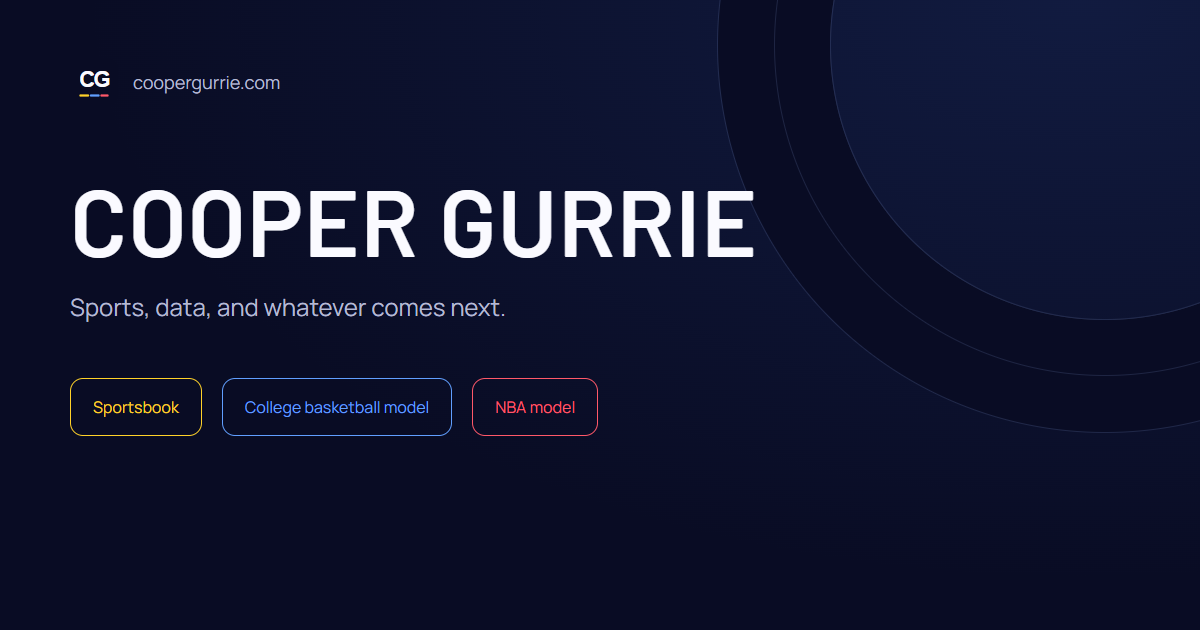
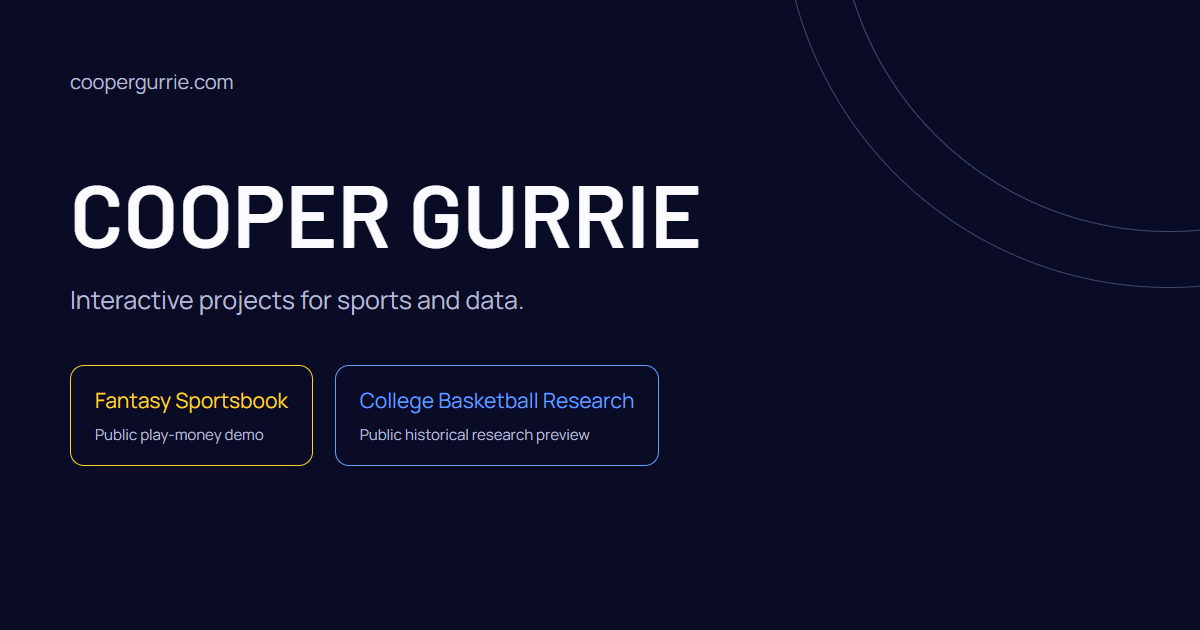
Improve portfolio navigation, project evidence, and research status

diff --git a/index.html b/index.html
@@ -4,24 +4,25 @@
 <meta charset="utf-8">
 <meta name="viewport" content="width=device-width, initial-scale=1">
 <meta name="theme-color" content="#090c24">
-<meta name="description" content="Cooper Gurrie's projects turn sports and data into interactive experiences. Explore a play-money fantasy football sportsbook and upcoming basketball models.">
+<meta name="description" content="Explore Cooper Gurrie's Fantasy Sportsbook, with a public play-money demo, and College Basketball Research, a public historical research preview.">
+<link rel="canonical" href="https://coopergurrie.com/">
 <link rel="icon" type="image/svg+xml" href="assets/cooper-favicon.svg">
 <link rel="preload" href="assets/fonts/Barlow-SemiBold.ttf" as="font" type="font/ttf" crossorigin>
 <link rel="preload" href="assets/fonts/Manrope-Variable.ttf" as="font" type="font/ttf" crossorigin>
 <meta property="og:type" content="website">
 <meta property="og:title" content="Cooper Gurrie — Projects">
-<meta property="og:description" content="Sports, data, and whatever comes next.">
+<meta property="og:description" content="Explore Cooper Gurrie's Fantasy Sportsbook, with a public play-money demo, and College Basketball Research, a public historical research preview.">
 <meta property="og:url" content="https://coopergurrie.com/">
 <meta property="og:image" content="https://coopergurrie.com/assets/cooper-share.png">
 <meta property="og:image:width" content="1200">
 <meta property="og:image:height" content="630">
-<meta property="og:image:alt" content="Cooper Gurrie: Sportsbook, college basketball model, and NBA model.">
+<meta property="og:image:alt" content="Cooper Gurrie: Fantasy Sportsbook and College Basketball Research.">
 <meta name="twitter:card" content="summary_large_image">
 <title>Cooper Gurrie — Projects</title>
 <style>
 @font-face{font-family:Barlow;src:url('assets/fonts/Barlow-SemiBold.ttf') format('truetype');font-style:normal;font-weight:600;font-display:swap}
 @font-face{font-family:Manrope;src:url('assets/fonts/Manrope-Variable.ttf') format('truetype');font-style:normal;font-weight:200 800;font-display:swap}
-:root{color-scheme:dark;--bg:#090c24;--text:#fafaff;--muted:#b5bad2;--yellow:#ffd229;--blue:#619fff;--red:#ff5869}
+:root{color-scheme:dark;--bg:#090c24;--text:#fafaff;--muted:#b5bad2;--yellow:#ffd229;--blue:#619fff}
 *{box-sizing:border-box}body{margin:0;background:var(--bg);color:var(--text);font-family:Manrope,"Segoe UI",Arial,sans-serif;-webkit-font-smoothing:antialiased;isolation:isolate}
 body::before{content:"";position:fixed;inset:0;z-index:-2;pointer-events:none;background:radial-gradient(ellipse at 85% 5%,#22397855,transparent 46%),radial-gradient(ellipse at 4% 89%,#23334a66,transparent 44%)}
 .background{position:fixed;inset:-24px;width:calc(100% + 48px);height:calc(100% + 48px);z-index:-1;pointer-events:none;opacity:.65;transform:translate(var(--bg-x,0px),var(--bg-y,0px));transition:transform 1.2s cubic-bezier(.2,.8,.2,1)}
@@ -29,31 +30,22 @@ body::before{content:"";position:fixed;inset:0;z-index:-2;pointer-events:none;ba
 @keyframes orbit-drift{from{transform:rotate(-1deg)}to{transform:rotate(2deg)}}
 @keyframes intro-enter{from{opacity:0;transform:translateY(14px)}to{opacity:1;transform:translateY(0)}}
 .intro{animation:intro-enter .7s ease-out both}
-.page{max-width:1340px;margin:auto;min-height:100svh;padding:76px 56px 32px}
-.intro{text-align:center}h1{font-family:Barlow,"Segoe UI",sans-serif;font-size:clamp(46px,7.2vw,102px);line-height:1.05;letter-spacing:1px;margin:22px 0 25px;font-weight:600}
+.page{max-width:1340px;margin:auto;min-height:100svh;padding:30px 56px 32px}
+.intro{text-align:center}h1{font-family:Barlow,"Segoe UI",sans-serif;font-size:clamp(46px,6.2vw,88px);line-height:1.05;letter-spacing:1px;margin:12px 0 16px;font-weight:600}
 .intro p{font-size:18px;line-height:1.65;color:var(--muted);max-width:660px;margin:0 auto}
-.socials{display:flex;justify-content:center;gap:20px;margin-top:26px}.social{position:relative;display:grid;place-items:center;width:44px;height:44px;outline:none;border-radius:12px;transition:transform .3s cubic-bezier(.2,.8,.2,1),background .25s,color .25s;color:#c9cae0}
-.social svg{width:24px;height:24px;fill:currentColor}.social:hover,.social:focus-visible{transform:translateY(-6px) rotate(-7deg) scale(1.12);color:white;background:#20204b}.social:focus-visible{outline:2px solid #fff;outline-offset:4px}
-.social::after{content:attr(data-label);position:absolute;top:52px;font-size:11px;white-space:nowrap;color:var(--muted);opacity:0;transform:translateY(-4px);transition:.2s;pointer-events:none}.social:hover::after,.social:focus-visible::after{opacity:1;transform:translateY(0)}
-.projects{display:grid;grid-template-columns:repeat(6,minmax(0,1fr));gap:38px;margin:74px 0 68px;perspective:1200px}
-.projects > .project{grid-column:span 2}
-.projects > .placeholder{min-height:280px}
-.projects > .placeholder h2{margin:0 0 35px}
-.projects > .placeholder.ocho{grid-column:2 / span 2;--accent:#bd8cff;--rgb:189,140,255}
-.projects > .placeholder.instagram{grid-column:4 / span 2;--accent:#65dba0;--rgb:101,219,160}
-.project{--accent:var(--yellow);--rgb:255,210,41;--rx:0deg;--ry:0deg;--px:50%;--py:50%;position:relative;isolation:isolate;display:flex;flex-direction:column;min-height:340px;padding:34px 30px 30px;border:2px solid var(--accent);border-radius:32px;outline:none;background:var(--bg);transform:translateY(0) rotateX(0deg) rotateY(0deg);transition:transform .45s cubic-bezier(.2,.75,.2,1),box-shadow .4s;will-change:transform;overflow:hidden}
-.project.blue{--accent:var(--blue);--rgb:97,159,255}.project.red{--accent:var(--red);--rgb:255,88,105}
+.projects{display:grid;grid-template-columns:repeat(2,minmax(0,1fr));align-items:start;gap:28px;margin:22px 0 36px;perspective:1200px}
+.project{--accent:var(--yellow);--rgb:255,210,41;--rx:0deg;--ry:0deg;--px:50%;--py:50%;position:relative;isolation:isolate;display:flex;flex-direction:column;min-height:0;padding:28px 28px 24px;border:2px solid var(--accent);border-radius:32px;outline:none;background:var(--bg);transform:translateY(0) rotateX(0deg) rotateY(0deg);transition:transform .45s cubic-bezier(.2,.75,.2,1),box-shadow .4s;will-change:transform;overflow:hidden}
+.project.blue{--accent:var(--blue);--rgb:97,159,255}
 .project::before{content:"";position:absolute;inset:0;z-index:-1;border-radius:inherit;background:radial-gradient(circle at var(--px) var(--py),rgba(var(--rgb),.17),transparent 65%);opacity:0;transition:opacity .4s}
 .project:hover,.project:focus-visible,.project:focus-within{transform:translateY(-12px) rotateX(var(--rx)) rotateY(var(--ry));box-shadow:0 22px 45px #00000038,0 0 32px rgba(var(--rgb),.12)}
 .project:hover::before,.project:focus-visible::before,.project:focus-within::before{opacity:1}.project:focus-visible{outline:2px solid white;outline-offset:6px}
-.project h2{font-family:Barlow,"Segoe UI",sans-serif;font-weight:600;font-size:26px;line-height:1.15;letter-spacing:-.3px;margin:0 0 19px}
-.description{font-size:16px;line-height:1.65;color:var(--muted);margin:0 0 28px;max-width:290px}
+.project h2{font-family:Barlow,"Segoe UI",sans-serif;font-weight:600;font-size:26px;line-height:1.15;letter-spacing:-.3px;margin:0 0 12px}
+.description{font-size:16px;line-height:1.65;color:var(--muted);margin:0 0 18px;max-width:46ch}
 .project h2,.description,.bottom{transition:transform .4s cubic-bezier(.2,.8,.2,1)}.project:hover h2{transform:translateY(-3px)}.project:hover .description{transform:translateY(-2px);transition-delay:.04s}
 .bottom{margin-top:auto}.status{font-size:12px;color:var(--muted);margin:0 0 13px;display:flex;align-items:center;gap:8px}.status::before{content:"";width:6px;height:6px;flex-shrink:0;background:var(--accent);border-radius:50%}
 .button{font:600 14px Manrope,"Segoe UI",Arial,sans-serif;display:flex;align-items:center;justify-content:center;width:100%;min-height:48px;padding:12px 16px;border:1px solid var(--accent);border-radius:10px;text-decoration:none;transition:transform .22s,background .22s,box-shadow .22s;color:#171525;background:var(--accent)}
 .button.live:hover{transform:translateY(-3px);background:#ffdf60;box-shadow:0 8px 22px #ffd22930}.button.live:active{transform:translateY(1px) scale(.98)}.button:focus-visible{outline:2px solid white;outline-offset:5px}
 .blue .button.live{background:var(--blue);color:#091429}.blue .button.live:hover{background:#8ab9ff;box-shadow:0 8px 22px #619fff30}
-.button:disabled{cursor:default;background:rgba(var(--rgb),.08);color:var(--accent);border-color:rgba(var(--rgb),.35)}
 footer{display:flex;justify-content:space-between;gap:20px;color:#8d8ea9;font-size:12px;line-height:1.5}footer p{margin:0}
 .about{margin:14px 0 0;color:var(--muted);font-size:14px;line-height:1.7}
 .about summary{display:flex;align-items:center;justify-content:space-between;gap:12px;padding:9px 0;list-style:none;cursor:pointer;color:var(--text);font-size:13px}
@@ -61,16 +53,29 @@ footer{display:flex;justify-content:space-between;gap:20px;color:#8d8ea9;font-si
 .about[open] summary::after{transform:rotate(45deg)}.about summary:hover{color:var(--accent)}.about summary:focus-visible{outline:2px solid white;outline-offset:5px;border-radius:3px}
 .about p{margin:8px 0 0}.about[open] p{animation:intro-enter .25s ease-out both}
 .about ul{padding-left:18px;margin:13px 0}.about li{margin:7px 0}.about strong{color:var(--text);font-weight:600}
-.personal.about{--accent:var(--blue);max-width:660px;margin:26px auto 0}
+.personal.about{--accent:var(--blue);max-width:660px;margin:8px auto 0}
 .personal summary{justify-content:center;gap:15px}
 .intro .personal p{font-size:15px;text-align:left;line-height:1.8;margin:13px 0}
-@media(max-width:1000px){.page{padding:50px 30px 30px}.projects{gap:20px}.project{padding:26px 22px;border-radius:26px}.project h2{font-size:23px}.description{font-size:15px}h1{letter-spacing:-2.5px}}
-@media(max-width:740px){.page{padding:38px 24px 26px}h1{font-size:clamp(40px,10vw,68px);letter-spacing:-2px;margin:20px 0}.intro p{font-size:16px;max-width:420px}.projects{grid-template-columns:1fr;gap:25px;margin:56px auto 46px;max-width:440px}.projects > .project,.projects > .placeholder.ocho,.projects > .placeholder.instagram{grid-column:1}.project{min-height:288px;padding:28px;border-radius:28px}.project h2{font-size:25px}.description{max-width:none;font-size:16px}footer{font-size:11px}.socials{margin-top:22px}}
-@media(prefers-reduced-motion:reduce){*,*::before,*::after{transition:none!important;animation:none!important}.project:hover,.project:focus-visible,.project:focus-within,.project:hover h2,.project:hover .description,.social:hover,.social:focus-visible,.button.live:hover,.button.live:active{transform:none!important}}
+.skip-link{position:fixed;left:16px;top:12px;z-index:10;padding:12px 18px;background:var(--yellow);color:var(--bg);border-radius:8px;transform:translateY(-160%)}
+.skip-link:focus{transform:none;outline:2px solid white;outline-offset:4px}
+main{scroll-margin-top:20px}main:focus{outline:2px solid var(--blue);outline-offset:10px;border-radius:8px}
+.explore{display:inline-flex;align-items:center;min-height:44px;margin-top:8px;color:var(--yellow);text-underline-offset:5px;font-weight:700}
+a:focus-visible{outline:2px solid white;outline-offset:5px;border-radius:3px}
+.section-heading{font:600 24px Barlow,"Segoe UI",sans-serif;margin:20px 0 0}
+.project-index{display:flex;flex-wrap:wrap;gap:8px 24px;margin-top:4px}.project-index a{display:inline-flex;align-items:center;min-height:44px;color:var(--muted);text-underline-offset:5px;font-size:14px}
+.project{scroll-margin-top:24px}.status{line-height:1.6}.role{font-size:13px;color:var(--muted);margin:0 0 18px}
+.secondary-link{display:flex;align-items:center;justify-content:center;min-height:44px;margin-top:4px;color:var(--accent);font-size:14px;text-underline-offset:4px}
+.project figure{margin:18px 0}.project img{display:block;width:100%;height:auto;border:1px solid #56617e;border-radius:10px}.project figcaption{font-size:12px;line-height:1.6;margin-top:8px;color:var(--muted)}
+.case-link{color:var(--blue);text-underline-offset:4px}.case-copy{margin-top:16px}.case-copy dt{color:var(--text);font-weight:700;margin-top:14px}.case-copy dd{margin:5px 0 0}
+.upcoming{border-top:1px solid #414864;padding-top:22px;margin-bottom:32px}.upcoming h2{margin:0 0 8px;font:600 22px Barlow,"Segoe UI",sans-serif}.upcoming p{color:var(--muted);font-size:14px;line-height:1.7;margin:8px 0}.upcoming strong{color:var(--text)}
+@media(max-width:1000px){.page{padding:28px 30px}.projects{gap:20px}.project{padding:24px 22px;border-radius:26px}.project h2{font-size:24px}.description{font-size:15px}h1{letter-spacing:-2.5px}}
+@media(max-width:740px){.page{padding:20px 20px 26px}h1{font-size:clamp(38px,10vw,68px);letter-spacing:-1.5px;margin:12px 0}.intro p{font-size:16px;max-width:420px}.projects{grid-template-columns:1fr;gap:20px;margin:12px auto 28px;max-width:520px}.project{padding:22px;border-radius:24px}.project h2{font-size:25px}.description{max-width:none;font-size:15px}.section-heading,.project-index,.upcoming{max-width:520px;margin-left:auto;margin-right:auto}.project-index{gap:0 16px}.project-index a{font-size:13px}footer{font-size:11px;flex-wrap:wrap}}
+@media(prefers-reduced-motion:reduce){*,*::before,*::after{transition:none!important;animation:none!important}.project:hover,.project:focus-visible,.project:focus-within,.project:hover h2,.project:hover .description,.button.live:hover,.button.live:active{transform:none!important}}
 @media(prefers-reduced-motion:reduce){.background{transform:none!important}}
 </style>
 </head>
 <body>
+<a class="skip-link" href="#projects">Skip to projects</a>
 <svg class="background" viewBox="0 0 1440 960" preserveAspectRatio="xMidYMid slice" aria-hidden="true">
 <g class="orbit-lines" fill="none" stroke="#7585bd" stroke-width="1" opacity=".21">
 <ellipse cx="1335" cy="105" rx="350" ry="275" transform="rotate(-30 1335 105)"/>
@@ -87,38 +92,45 @@ footer{display:flex;justify-content:space-between;gap:20px;color:#8d8ea9;font-si
 <div class="page">
 <header class="intro">
 <h1>COOPER GURRIE</h1>
-<p>A home for my projects, turning sports and data into interactive experiences to share with others.</p>
-<div class="socials" aria-label="LinkedIn and email — links will be added later">
-<span class="social" tabindex="0" role="img" aria-label="LinkedIn — link to be added" data-label="LinkedIn">
-<svg viewBox="0 0 24 24" aria-hidden="true"><path d="M20.4 2H3.6C2.7 2 2 2.7 2 3.6v16.8c0 .9.7 1.6 1.6 1.6h16.8c.9 0 1.6-.7 1.6-1.6V3.6c0-.9-.7-1.6-1.6-1.6ZM8 19H5V9h3v10ZM6.5 7.7a1.7 1.7 0 1 1 0-3.4 1.7 1.7 0 0 1 0 3.4ZM19 19h-3v-5.3c0-1.3-.5-2.1-1.6-2.1-1.2 0-1.9.8-1.9 2.1V19h-3V9h2.9v1.4c.5-.8 1.5-1.7 3-1.7 2.5 0 3.6 1.5 3.6 4.4V19Z"/></svg>
-</span>
-<span class="social" tabindex="0" role="img" aria-label="Email — address to be added" data-label="Email">
-<svg viewBox="0 0 24 24" aria-hidden="true" style="fill:none;stroke:currentColor;stroke-width:1.8;stroke-linecap:round;stroke-linejoin:round"><rect x="2.5" y="4.5" width="19" height="15" rx="2.5"/><path d="m3.5 6 8.5 7 8.5-7"/></svg>
-</span>
-</div>
-<details class="about personal"><summary>A little about me</summary><p>Family, friends, and sports are a big part of my life. I love watching, playing, and talking about sports, and turning data that might otherwise sit in a spreadsheet into something people can interact with and enjoy.</p><p>I started these projects to see how far curiosity, passion, and perseverance could take me. Building something I can call my own is rewarding. Sharing it with others is the best part. The topics may change, but making data enjoyable and useful will always be the focus.</p></details>
+<p>I turn sports and data into interactive experiences.</p>
+<a class="explore" href="#projects">Explore my work</a>
+
 </header>
-<main class="projects" aria-label="Projects">
-<article class="project" tabindex="0" aria-labelledby="sportsbook-title">
-<h2 id="sportsbook-title">Sportsbook</h2>
-<p class="description">A play-money sportsbook for my fantasy football dynasty league. Bet on matchups, player performances, and season outcomes, then see how you stack up against your leaguemates.</p>
-<div class="bottom"><p class="status">Live for select users</p><a class="button live" href="https://sportsbook.coopergurrie.com">Open sportsbook</a></div>
-<details class="about"><summary>About this project</summary><p>I built this to give my dynasty league another way to compete and spend time together, using play money so nobody has to risk losing real money to join in.</p><ul><li><strong>Matchup bets:</strong> predict winners, total scores, and winning margins.</li><li><strong>Player bets:</strong> predict individual fantasy performances.</li><li><strong>Weekly predictions:</strong> bet on outcomes across the league.</li><li><strong>Season futures:</strong> predict the champion, No. 1 pick, and playoff teams.</li><li><strong>League activity:</strong> view your bets, everyone else's bets, and the season leaderboard.</li></ul><p>Today it's built for one league. Longer term, I'd like to bring that extra layer of competition and interaction to other fantasy leagues.</p></details>
+<main id="projects" tabindex="-1" aria-labelledby="projects-heading">
+<h2 class="section-heading" id="projects-heading">Explore the projects</h2>
+<nav class="project-index" aria-label="Published projects"><a href="#sportsbook">Fantasy Sportsbook</a><a href="#basketball">College Basketball Research</a></nav>
+<div class="projects">
+<article id="sportsbook" class="project" aria-labelledby="sportsbook-title">
+<h2 id="sportsbook-title">Fantasy Sportsbook</h2>
+<p class="description">A play-money sportsbook for fantasy football leaguemates, with matchup bets, player markets, and a leaderboard.</p>
+<p class="role">Built by me for my dynasty league.</p>
+<div class="bottom"><p class="status">Public demo · League app requires approved access</p><a class="button live" href="https://sportsbook.coopergurrie.com/#/demo">Explore the sportsbook demo</a><a class="secondary-link" href="https://sportsbook.coopergurrie.com">League member sign-in</a></div>
+<details class="about"><summary>Inside Fantasy Sportsbook</summary>
+<figure><img src="assets/sportsbook-demo.webp" width="1280" height="900" loading="lazy" alt="Fantasy Sportsbook demo showing fictional league matchups, play-money lines, and a notice that betting is disabled."><figcaption>The public, read-only demo uses fictional teams, scores, balances, and tickets.</figcaption></figure>
+<dl class="case-copy"><dt>The problem &amp; audience</dt><dd>I wanted to give my dynasty league another way to compete and spend time together beyond the fantasy standings.</dd>
+<dt>What I built</dt><dd>A sportsbook experience for matchup bets, player performances, season futures, ticket history, and league standings.</dd>
+<dt>A design decision</dt><dd>Use play money so participation does not require risking real money. Keep the public demo separate from private league access.</dd>
+<dt>Try it now</dt><dd>Explore fictional markets, sample tickets, and the leaderboard in the demo. Betting, account changes, and email delivery are disabled there.</dd>
+<dt>Current limits</dt><dd>The league app requires an approved email mapped to a team by the league administrator. The demo is illustrative; live line updates are still in development.</dd></dl>
+</details>
 </article>
-<article class="project blue" tabindex="0" aria-labelledby="cbb-title">
-<h2 id="cbb-title">NCAAB Prediction Model</h2>
-<p class="description">A live Division I college basketball model focused on finding potential edges in sportsbook lines. Explore the current model as I continue to develop and refine it.</p>
-<div class="bottom"><p class="status">Live</p><a class="button live" href="https://cbb.coopergurrie.com">Access Model</a></div>
-<details class="about"><summary>About this project</summary><p>Built around current and historical Division I team data, with an initial focus on spreads.</p><p>The project aims to bring matchup information, model projections, and sportsbook comparisons together, with a history of recommendations and results to help evaluate the model.</p><p>The college basketball site is live, and I'll continue expanding its features.</p></details>
+<article id="basketball" class="project blue" aria-labelledby="cbb-title">
+<h2 id="cbb-title">College Basketball Research</h2>
+<p class="description">Compare Division I basketball models with historical matchups, recorded sportsbook lines, and results.</p>
+<p class="role">My ongoing basketball data and model project.</p>
+<div class="bottom"><p class="status">Public research preview · No validated betting edge</p><a class="button live" href="https://cbb.coopergurrie.com">Explore basketball research</a><a class="secondary-link" href="https://cbb.coopergurrie.com/#performance">Explore historical winner performance</a></div>
+<details class="about"><summary>Inside College Basketball Research</summary>
+<figure><img src="assets/basketball-research.webp" width="1280" height="900" loading="lazy" alt="College Basketball Research showing historical spread comparisons, hypothetical returns, uncertainty, and a model-not-promoted notice."><figcaption>Historical research comparisons. Hypothetical results do not establish a betting advantage.</figcaption></figure>
+<dl class="case-copy"><dt>The problem &amp; audience</dt><dd>Basketball fans exploring models need to see what was evaluated and what the evidence can actually support.</dd>
+<dt>What I am building</dt><dd>A place to explore Division I data, historical model comparisons, recorded prices, and evaluation methods.</dd>
+<dt>A design decision</dt><dd>Separate winner predictions from spread-cover research, and show uncertainty and source limitations alongside results.</dd>
+<dt>Try it now</dt><dd><a class="case-link" href="https://cbb.coopergurrie.com/#spreads">Compare historical spread research</a> or explore winner performance using the link above.</dd>
+<dt>Current limits</dt><dd>This is a research preview. Historical comparisons were not issued as live bets. No validated spread betting edge has been established; winner accuracy is not a betting return.</dd></dl>
+</details>
 </article>
-<article class="project red" tabindex="0" aria-labelledby="nba-title">
-<h2 id="nba-title">NBA model</h2>
-<p class="description">An NBA model designed to find potential edges in sportsbook lines, starting with spreads. Explore daily matchup recommendations and compare odds once it launches.</p>
-<div class="bottom"><p class="status">In development</p><button class="button" disabled>Coming soon</button></div>
-<details class="about"><summary>About this project</summary><p>The NBA counterpart to my college basketball model, built around current and historical NBA data. It will start with spreads, with winners and totals also planned.</p><p><strong>Planned features</strong></p><ul><li>Daily game recommendations with matchup information.</li><li>Compare model projections with lines from major sportsbooks.</li><li>Highlight the best available odds among the books compared for a recommended bet.</li><li>Keep a history of recommendations and their results to evaluate and refine the model.</li></ul><p>The model and its website are both in development.</p></details>
-</article>
-<article class="project placeholder ocho" tabindex="0" aria-labelledby="ocho-title"><h2 id="ocho-title">THE OCHO</h2><div class="bottom"><p class="status">In development</p><button class="button" disabled>Coming soon</button></div></article>
-<article class="project placeholder instagram" tabindex="0" aria-labelledby="auto-ig-title"><h2 id="auto-ig-title">Auto IG Posts</h2><div class="bottom"><p class="status">In development</p><button class="button" disabled>Coming soon</button></div></article>
+</div>
+<section class="upcoming" aria-labelledby="upcoming-heading"><h2 id="upcoming-heading">Ideas in progress</h2><p><strong>The Ocho</strong> — Up next. Scope and details to come.</p><p><strong>NBA Model</strong> — Planned research into NBA spreads and historical model evaluation. No public model yet.</p></section>
+<details class="about personal"><summary>A little about me</summary><p>Family, friends, and sports are a big part of my life. I love watching, playing, and talking about sports, and turning data that might otherwise sit in a spreadsheet into something people can interact with and enjoy.</p><p>I started these projects to see how far curiosity, passion, and perseverance could take me. Building something I can call my own is rewarding. Sharing it with others is the best part. The topics may change, but making data enjoyable and useful will always be the focus.</p></details>
 </main>
 <footer><p>coopergurrie.com</p><p>More projects as they take shape.</p></footer>
 </div>

diff --git a/tests/test_portfolio.py b/tests/test_portfolio.py
@@ -1,0 +1,126 @@
+"""Browser regressions for the static portfolio. No external app writes."""
+import os
+from functools import partial
+from http.server import SimpleHTTPRequestHandler, ThreadingHTTPServer
+from pathlib import Path
+from threading import Thread
+import unittest
+from playwright.sync_api import sync_playwright
+
+ROOT = Path(__file__).resolve().parents[1]
+
+
+class QuietHandler(SimpleHTTPRequestHandler):
+    def log_message(self, *args):
+        pass
+
+
+class PortfolioTests(unittest.TestCase):
+    @classmethod
+    def setUpClass(cls):
+        cls.server = ThreadingHTTPServer(('127.0.0.1', 0), partial(QuietHandler, directory=str(ROOT)))
+        Thread(target=cls.server.serve_forever, daemon=True).start()
+        cls.url = f'http://127.0.0.1:{cls.server.server_port}/'
+        cls.pw = sync_playwright().start()
+        options = {'headless': True}
+        if os.getenv('BROWSER_CHANNEL'):
+            options['channel'] = os.environ['BROWSER_CHANNEL']
+        cls.browser = cls.pw.chromium.launch(**options)
+
+    @classmethod
+    def tearDownClass(cls):
+        cls.browser.close()
+        cls.pw.stop()
+        cls.server.shutdown()
+        cls.server.server_close()
+
+    def setUp(self):
+        self.page = self.browser.new_page(viewport={'width':1440, 'height':900})
+        self.page.goto(self.url, wait_until='networkidle')
+        self.page.evaluate('document.fonts.ready')
+
+    def tearDown(self):
+        self.page.close()
+
+    def test_keyboard_skip_and_disclosures(self):
+        page = self.page
+        page.keyboard.press('Tab')
+        self.assertEqual(page.locator(':focus').inner_text(), 'Skip to projects')
+        self.assertGreaterEqual(page.locator(':focus').bounding_box()['y'], 0)
+        page.keyboard.press('Enter')
+        self.assertEqual(page.locator(':focus').get_attribute('id'), 'projects')
+        page.keyboard.press('Tab')
+        self.assertEqual(page.locator(':focus').inner_text(), 'Fantasy Sportsbook')
+        for summary in page.locator('summary').all():
+            summary.focus()
+            page.keyboard.press('Enter')
+            self.assertTrue(summary.locator('..').evaluate('(el)=>el.open'))
+            page.keyboard.press('Space')
+            self.assertFalse(summary.locator('..').evaluate('(el)=>el.open'))
+        self.assertEqual(page.locator('[tabindex="0"], button:disabled, .social').count(), 0)
+
+    def test_real_links_activate_with_mouse_and_enter(self):
+        page = self.page
+        destinations = {
+            'Explore the sportsbook demo': 'https://sportsbook.coopergurrie.com/#/demo',
+            'League member sign-in': 'https://sportsbook.coopergurrie.com/',
+            'Explore basketball research': 'https://cbb.coopergurrie.com/',
+            'Explore historical winner performance': 'https://cbb.coopergurrie.com/#performance',
+        }
+        # Intercept destinations so this regression test stays offline and read-only.
+        page.route('https://**/*', lambda route: route.fulfill(body='<title>Destination</title><p>Destination</p>', content_type='text/html'))
+        for label, target in destinations.items():
+            for action in ['mouse', 'keyboard']:
+                page.goto(self.url)
+                link = page.get_by_role('link', name=label, exact=True)
+                if action == 'mouse':
+                    link.click()
+                else:
+                    link.focus()
+                    page.keyboard.press('Enter')
+                page.wait_for_url(target)
+                self.assertEqual(page.url, target)
+
+    def test_narrow_layout_and_expanded_content(self):
+        page = self.page
+        page.emulate_media(reduced_motion='reduce')
+        for width in [320,390,768,1440]:
+            page.set_viewport_size({'width':width,'height':844})
+            for expanded in [False,True]:
+                page.locator('details').evaluate_all('(els,open)=>els.forEach(el=>el.open=open)', expanded)
+                self.assertLessEqual(page.evaluate('document.documentElement.scrollWidth'), width)
+                for heading in page.locator('h1,h2').all():
+                    self.assertLessEqual(heading.evaluate('(el)=>el.scrollWidth'), heading.evaluate('(el)=>el.clientWidth'))
+        page.set_viewport_size({'width':390,'height':844})
+        page.locator('details').evaluate_all('(els)=>els.forEach(el=>el.open=false)')
+        self.assertLess(page.locator('.project-index').bounding_box()['y'], 320)
+        self.assertLess(page.locator('#basketball').bounding_box()['y'], 844)
+
+    def test_media_loads_and_metadata_agrees(self):
+        page = self.page
+        page.locator('article details').evaluate_all('(els)=>els.forEach(el=>el.open=true)')
+        for img in page.locator('article img').all():
+            img.scroll_into_view_if_needed()
+            page.wait_for_function('(src)=>{const img=document.querySelector(`img[src="${src}"]`);return img.complete && img.naturalWidth>0}', arg=img.get_attribute('src'))
+            self.assertEqual(img.evaluate('(el)=>el.naturalWidth'), 1280)
+            self.assertTrue(img.get_attribute('alt'))
+            self.assertEqual(img.get_attribute('width'), '1280')
+            self.assertEqual(img.get_attribute('height'), '900')
+        self.assertEqual(page.locator('meta[name="description"]').get_attribute('content'), page.locator('meta[property="og:description"]').get_attribute('content'))
+        self.assertNotIn('Auto IG', page.content())
+        for asset in ['assets/cooper-share.png','assets/cooper-favicon.svg','assets/sportsbook-demo.webp','assets/basketball-research.webp']:
+            self.assertEqual(page.request.get(self.url + asset).status, 200)
+        self.assertEqual(page.evaluate('''async url=>{const img=new Image();img.src=url;await img.decode();return [img.naturalWidth,img.naturalHeight]}''', self.url + 'assets/cooper-share.png'), [1200,630])
+
+    def test_reduced_motion(self):
+        page = self.page
+        page.emulate_media(reduced_motion='reduce')
+        panel = page.locator('.project').first
+        panel.hover()
+        self.assertEqual(panel.evaluate('(el)=>getComputedStyle(el).transform'), 'none')
+        self.assertEqual(page.locator('.orbit-lines').evaluate('(el)=>getComputedStyle(el).animationName'), 'none')
+        self.assertEqual(page.locator('.background').evaluate('(el)=>getComputedStyle(el).transform'), 'none')
+
+
+if __name__ == '__main__':
+    unittest.main()

diff --git a/docs/portfolio-review.md b/docs/portfolio-review.md
@@ -1,0 +1,79 @@
+# Portfolio correction review
+
+Prepared October 18, 2026. Portfolio scope only. Auto Instagram Posts has been removed at the owner's request. The Ocho is queued for separate development; its purpose has not been invented.
+
+## Audit status
+
+| ID | Status | Resolution and evidence |
+| --- | --- | --- |
+| P01 | Fixed | Removed inert LinkedIn/email spans. No confirmed profile URL or contact address exists in the repository. Keyboard flow has no placeholder stops; supplying contacts later is optional. |
+| P02 | Fixed | Auto Instagram Posts removed entirely. The Ocho moved to a compact ideas section with explicit scope pending. NBA Model has a sourced, planned purpose and no disabled launch control. |
+| P03 | Fixed | Two public projects lead; unpublished ideas follow. Both projects have navigation links above the first card, and the second heading enters the initial 390 × 844 viewport. |
+| P04 | Fixed | College Basketball Research is labeled a public research preview with no validated betting edge. Sportsbook access distinguishes the public demo from approved league membership. |
+| P05 | Fixed | First card begins around y=299 at 390px and y=351 at 1440px. Biography follows project content. Browser screenshots cover 320, 390, 768, 1366 × 768, and 1440px layouts. |
+| P06 | Fixed | Native disclosures contain two public screenshots and concise case studies covering audience, contribution, design, behavior and limits. The sportsbook screenshot contains synthetic data only. Working demo and historical performance links are enabled. |
+| P07 | Fixed | Names match the live applications: Fantasy Sportsbook and College Basketball Research. Action labels identify the demo, sign-in, research, and historical winner performance destinations. |
+| P08 | Fixed | First keyboard stop is a visible-on-focus skip link. Enter moves focus to the projects main landmark; the next Tab reaches project navigation. |
+| P09 | Fixed | Intro states the maker's focus; project cards include contribution context and case studies. Personal biography remains available in a native disclosure below the work. No fabricated release dates or technology claims. |
+| P10 | Fixed | Normal/social descriptions agree with project status. New 1200 × 630 social image uses current project names and preview labels. Canonical URL added. The existing production social URL responds 200; new local assets respond 200 through the test server. |
+
+All original observations were checked against the current repository, not assumed from the audit. No complete audit item was already resolved in the portfolio. The external demo and basketball research views already existed and were verified before linking them.
+
+## Source and media provenance
+
+- The original portfolio source provides the owner's dynasty-league motivation, sports/data interests, and planned NBA scope.
+- The sportsbook's public sign-in page explicitly describes approved membership. Its `/#/demo` route explicitly states that every name, score, balance and ticket is fictional, and that betting, account changes and email delivery are disabled. Captured from a fresh, unauthenticated browser on October 18. No private league pages or member data were accessed for these assets.
+- College Basketball Research's public `/#spreads` and `/#performance` routes state retrospective evaluation, uncertainty, no promoted live model, and no validated betting advantage. The image preserves those qualifiers alongside the displayed hypothetical results. No results have been copied into portfolio marketing claims.
+- `assets/sportsbook-demo.webp` and `assets/basketball-research.webp` are 1280 × 900 viewport screenshots, converted to WebP. Their HTML dimensions preserve layout; alt text describes the function; captions distinguish demo and research limits. Both load lazily inside the case-study disclosures.
+- `assets/cooper-share.png` is a new 1200 × 630 static social graphic consistent with the existing palette and bundled fonts.
+
+## Verification
+
+The site remains a static page with no build step or production dependencies.
+
+Install development requirements, install a Playwright Chromium browser, then run:
+
+```text
+python -m pip install -r requirements-dev.txt
+python -m playwright install chromium
+python -m unittest discover -s tests -v
+```
+
+Set `BROWSER_CHANNEL=msedge` to use an installed Edge browser. All five browser regression tests passed in Edge: native skip/disclosure behavior; mouse and Enter navigation; narrow and expanded layouts; media and metadata; reduced motion. Navigation tests intercept outbound destinations to avoid app mutations. Separate public browser checks verified real routes and read-only demo tabs.
+
+Additional visual checks: 320/390/768/1440px, short 1366 × 768 laptop, expanded case studies, and 200% CSS zoom. No horizontal overflow in closed or expanded states. The scan found no WCAG A/AA violations; automated contrast analysis had an incomplete result for screenshot content, so the scan is not a blanket accessibility certification. Text and controls were visually reviewed. Native browser-menu zoom, screen-reader speech output, iOS Safari and Android Chrome were not exercised.
+
+The production portfolio remains unchanged until a separate authorized deployment. New media URLs can only be verified in production after that deployment. No sitemap was added because case studies are in-page disclosures, not separate pages; missing robots.txt is not treated as an indexing defect.
+
+## Cross-project link contract
+
+| Destination | Current verified route | Portfolio label |
+| --- | --- | --- |
+| Public sportsbook demo | `https://sportsbook.coopergurrie.com/#/demo` | Explore the sportsbook demo |
+| Private league access | `https://sportsbook.coopergurrie.com/` | League member sign-in |
+| Basketball entry | `https://cbb.coopergurrie.com/` | Explore basketball research |
+| Historical spread comparison | `https://cbb.coopergurrie.com/#spreads` | Compare historical spread research |
+| Historical winner performance | `https://cbb.coopergurrie.com/#performance` | Explore historical winner performance |
+| Return to portfolio | `https://coopergurrie.com/` | Back to portfolio |
+
+Both applications already show a return link to the portfolio. Preserve these routes or provide redirects when their navigation changes. Suggested identity strings are the current application names above, with Cooper Gurrie as the portfolio owner. No messages were sent to other chats; direct owner coordination is still needed to promise long-term route stability or obtain bespoke media. A stable individual-game deep link has not been confirmed and is not invented here. The verified historical comparison and performance destinations work independently of that future link.
+
+## Scoped feature proposals
+
+### Case studies and changelog
+
+Extend the two existing disclosures into dedicated project pages only when there is enough approved release material to justify them. Cooper maintains portfolio summaries; each application owner supplies approved release notes and sanitized media. Dependencies: shipped commit/release references, agreed author contributions, source dates, stable project slugs. Acceptance: each change links to a release, each case study states current limits, navigation works without JavaScript, new pages have canonical URLs and appear in a sitemap. Check links on every portfolio change; review screenshots/status after each application release and at least quarterly. Mark stale content after a failed link check or an app release that changes the depicted behavior. Do not use today's date as a product-release date.
+
+### Public sportsbook demo entry
+
+The minimal integration is implemented using the existing public synthetic route and screenshot. Next increment: obtain the sportsbook owner's commitment to the demo route and a versioned fixture/media contract. Dependencies: synthetic fixture provenance, no account mutations, explicit disabled transaction behavior, route redirect policy. Acceptance: anonymous visitors can view markets, tickets and standings; the demo cannot submit bets or change balances; no private data is returned; member sign-in remains separate. The portfolio does not implement or alter sportsbook access controls or betting logic.
+
+### Basketball research tour entry
+
+The minimal integration is implemented with verified spread/performance routes and research labels. Next increment: the basketball owner supplies a stable curated historical-game URL and confirms the relevant model/data release. Dependencies: event identifier and route format, source dates, historical odds timing, replay behavior, approved performance context. Acceptance: a first-time visitor can reach one historical game, reproduce its displayed comparison, and reach aggregate evaluation; retrospective results remain distinct from prospective forecasts and hypothetical returns remain labeled. The portfolio does not change models, probabilities, data or promotion policy.
+
+## Remaining information
+
+- Confirmed LinkedIn URL and contact email, only if the owner wants those links restored.
+- The Ocho's audience, intended task, benefit, and initial scope before its project development begins.
+- Owner-backed individual historical-game URL and long-term route/media contracts for the optional tour extensions above.

diff --git a/README.md b/README.md
@@ -6,3 +6,6 @@ The existing Vercel project is coopergurrie-landing in Cooper Gurrie Projects.
 
 Serve this folder as the site root. No build command or dependencies are needed.
 Font licenses are bundled under assets/fonts/.
+
+Development verification and audit resolutions are in [docs/portfolio-review.md](docs/portfolio-review.md).
+Browser regressions use Playwright via `requirements-dev.txt`; the published page still has no runtime dependencies.
